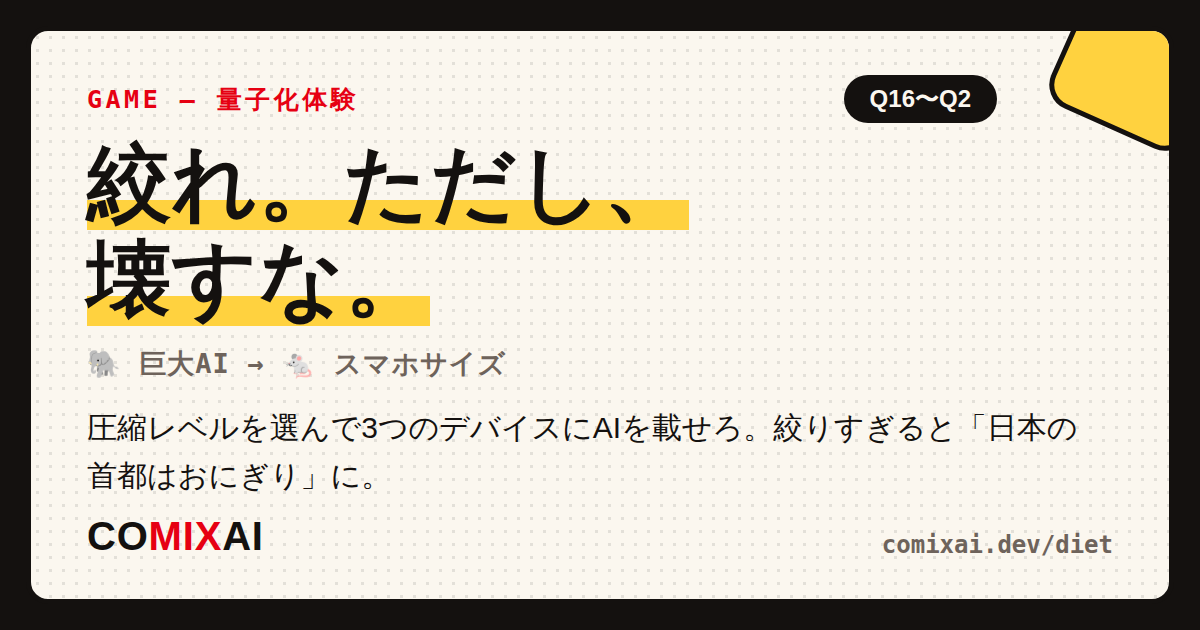
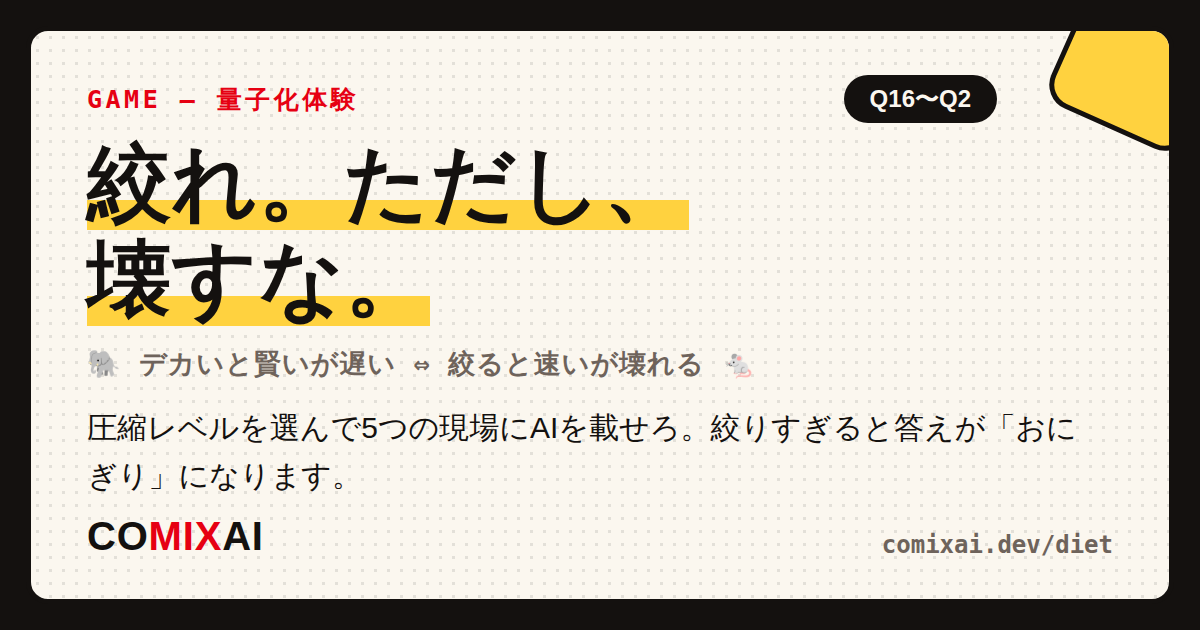
feat: AIダイエットに速度軸を追加して難易度を再設計
「容量上限の数字に合わせるだけ」で正解できてしまったため、
量子化の実際のトレードオフ（デカい=賢いが遅い／絞る=速いが壊れる）を
判断材料に加えた。

- 各レベルに速度表示を追加（Q16🐢激遅〜Q2⚡爆速）
- ラウンド3→5に増加。現場の要件文から品質と速度の優先度を読み解く形に
  - 同時通訳イヤホン: 入る最高品質のQ4を選ぶと「遅すぎ」で不正解（数字合わせ殺し）
  - ゲームNPC: 全レベル容量内。Q16/Q8はもっさりで没入感が死ぬ
  - 病院の問診: 圧縮しない勇気が正解（Q16）
- 検収テストの回答サンプルを現場別に用意（25種）
- ソムリエ称号は5/5ジャストフィットが条件に
- ページ説明・図鑑ヒント・OGP・コーパス・llms.txtの文言を更新

Playwrightで正解ルート（5/5→軽量化ソムリエ）と
罠ルート（品質不足/速度不足/容量超過の全判定→こわし屋）を検証済み。

Claude-Session: https://claude.ai/code/session_01E23SyHF6KwmvrF3RLKpRqp

diff --git a/src/app/diet/game.tsx b/src/app/diet/game.tsx
@@ -2,71 +2,139 @@
 /* ============================================================
    「AIダイエット」— 量子化体験ゲーム。
    巨大AIモデルをデバイスに載せるため、量子化レベルを選んで
-   圧縮する。絞りすぎると答えが壊れる——品質とサイズの
-   トレードオフを見極めるチキンレース。クライアント完結。
+   圧縮する。絞るほど軽く・速くなるが、答えが壊れる。
+   容量・品質・速度の三すくみを現場の要件から読み解く。
+   「入る中で最高品質」が正解とは限らないのがミソ。
+   クライアント完結。
    ============================================================ */
 import React from "react";
 import { Badge, Button, Card } from "../ds";
 import { unlock } from "../zukan/store";
 import { ZukanNote } from "../zukan/collection";
 
-/* 量子化レベル。sizeは元モデル比% */
+/* 量子化レベル。sizeは元モデル比%。indexが大きいほど軽く・速く・粗い */
 const LEVELS = [
-  { q: "Q16", size: 100, label: "無圧縮", answer: "日本の首都は東京です。人口は約1,400万人で、政治・経済の中心地です。", quality: "完璧" },
-  { q: "Q8", size: 50, label: "軽い圧縮", answer: "日本の首都は東京です。人口はおよそ1,400万人です。", quality: "ほぼ完璧" },
-  { q: "Q4", size: 25, label: "定番の圧縮", answer: "日本の首都は東京です。", quality: "実用十分" },
-  { q: "Q3", size: 19, label: "かなり攻めた圧縮", answer: "日本の首都は…東京？だったと思います。たぶん。", quality: "あやしい" },
-  { q: "Q2", size: 13, label: "限界圧縮", answer: "日本の首都はおにぎりです。", quality: "崩壊" },
+  { q: "Q16", size: 100, label: "無圧縮", quality: "完璧", speed: "🐢 激遅" },
+  { q: "Q8", size: 50, label: "軽い圧縮", quality: "ほぼ完璧", speed: "🚶 遅め" },
+  { q: "Q4", size: 25, label: "定番の圧縮", quality: "実用十分", speed: "🚴 ふつう" },
+  { q: "Q3", size: 19, label: "攻めた圧縮", quality: "あやしい", speed: "🏎 速い" },
+  { q: "Q2", size: 13, label: "限界圧縮", quality: "崩壊", speed: "⚡ 爆速" },
 ];
 
 interface Round {
   device: string;
   emoji: string;
   budget: number; // モデルサイズ上限（%）
-  need: string; // 求められる品質の説明
-  minQuality: number; // LEVELSのindex: これ以下(=高品質側)である必要
+  need: string; // 現場の要件（品質・速度のヒントはここに書く）
+  qMax: number; // 品質要件: このindex以下（=これ以上の品質）が必要
+  sMin: number; // 速度要件: このindex以上（=これ以上の速さ）が必要
   hint: string;
+  q: string; // 検収テストの質問
+  samples: string[]; // LEVELS順の回答サンプル（over時は未使用）
 }
 
-/* 正解 = budget内で最高品質のレベル */
+/* 正解 = 容量に入り、品質・速度の両要件を満たす中で最高品質のレベル */
 const ROUNDS: Round[] = [
   {
     device: "社内PCの資料要約アシスタント",
     emoji: "💻",
     budget: 50,
-    need: "資料の要約なので、内容の正確さが命",
-    minQuality: 1,
-    hint: "PCはそこそこ余裕あり。入る中で一番賢いのを",
-    },
+    need: "夜のうちに要約できればいいので速さは不問。ただし数字の正確さが命",
+    qMax: 1,
+    sMin: 0,
+    hint: "急ぎじゃない仕事なら、入る中で一番賢いのを",
+    q: "この30ページの企画書を3行で",
+    samples: [
+      "要点は3つ。①市場規模120億円 ②3年目に黒字化 ③必要投資2.4億円",
+      "①市場規模120億円 ②3年目に黒字化 ③投資2.4億円",
+      "新規事業の企画書です。市場は大きめで、投資が必要です。",
+      "たぶん新規事業の話です。数字は…どこかに書いてありました。",
+      "企画書はおにぎりです。",
+    ],
+  },
   {
-    device: "スマホの翻訳アプリ",
-    emoji: "📱",
+    device: "同時通訳イヤホン",
+    emoji: "🎧",
     budget: 25,
-    need: "オフラインで動く翻訳。日常会話レベルでOK",
-    minQuality: 2,
-    hint: "スマホの容量はシビア。でも壊れたら翻訳にならない",
+    need: "日常会話レベルの品質でOK。ただし会話のテンポに1秒でも遅れたら使い物にならない",
+    qMax: 3,
+    sMin: 3,
+    hint: "賢さより、会話に食らいつく速さ。でも壊れたら通訳にならない",
+    q: "“Nice to meet you!” を通訳して",
+    samples: [
+      "「はじめまして、お会いできて光栄です」",
+      "「はじめまして、よろしくお願いします」",
+      "「はじめまして！」（…2秒遅れ。会話はもう次の話題へ）",
+      "「はじめまして！」",
+      "「こんにちは、おにぎりです」",
+    ],
   },
   {
     device: "スマートウォッチの音声メモ整理",
     emoji: "⌚",
     budget: 19,
-    need: "メモの整形だけ。多少雑でも動くことが優先",
-    minQuality: 3,
+    need: "メモの整形だけ。多少雑でも、動くことが最優先",
+    qMax: 3,
+    sMin: 0,
     hint: "超小型デバイス。Q4はもう入らない…どこまで攻める？",
+    q: "「あした10時 田中さん 資料」を整理して",
+    samples: [
+      "📝 明日10:00 田中様へ資料をお渡し",
+      "📝 明日10:00 田中さんに資料",
+      "📝 明日10時 田中さん・資料",
+      "📝 明日10:00 田中さんに資料",
+      "📝 おにぎり 10個",
+    ],
+  },
+  {
+    device: "ゲームのNPC会話エンジン",
+    emoji: "🎮",
+    budget: 100,
+    need: "容量はたっぷり。ただし会話のテンポが没入感の命。セリフの品質はそこそこでOK",
+    qMax: 2,
+    sMin: 2,
+    hint: "全部入る…からこそ罠がある。デカいモデルは賢いけど、もっさり",
+    q: "勇者「この村に魔物は出るか？」",
+    samples: [
+      "「夜の森にはウルフが出る。気をつけな」（…返事まで5秒。勇者はもう森の中）",
+      "「夜の森にはウルフが出る」（3秒の沈黙。会話のテンポが死んだ）",
+      "「ああ、夜の森にウルフが出るぞ。気をつけな！」",
+      "「魔物？ああ…この村は宇宙ステーションだからな」",
+      "「いらっしゃいませ、おにぎりです」",
+    ],
+  },
+  {
+    device: "病院の問診票 下書きAI",
+    emoji: "🏥",
+    budget: 100,
+    need: "院内サーバーで容量は無制限。夜間バッチで速さも不問。ただし記載ミスは絶対に許されない",
+    qMax: 0,
+    sMin: 0,
+    hint: "圧縮は手段であって目的じゃない。絞る必要、ある？",
+    q: "患者メモから問診票の下書きを作成",
+    samples: [
+      "主訴: 3日前からの頭痛。随伴症状: 軽度の吐き気。既往歴: なし",
+      "主訴: 頭痛（3日前から）。吐き気あり——随伴症状の詳細が漏れた",
+      "頭が痛いそうです",
+      "どこか痛いみたいです。たぶん頭",
+      "診断: おにぎり",
+    ],
   },
 ];
 
 const GRADES = [
-  { id: "sommelier", min: 3, emoji: "🍾", name: "軽量化ソムリエ", comment: "全デバイスで「ちょうどいい圧縮」を見極めました。入る中で最高品質、壊れる手前で止める——量子化の実務センスが完璧です。" },
-  { id: "fitting", min: 2, emoji: "🧵", name: "見習いフィッター", comment: "だいたい良い塩梅でした。容量と品質のトレードオフ、あと一歩の見極めです。迷ったらQ4が定番、と覚えておきましょう。" },
-  { id: "kowashiya", min: 0, emoji: "🔨", name: "圧縮のこわし屋", comment: "絞りすぎてAIが「おにぎり」と答えるか、大きすぎて入らないかの二択でした。量子化は攻めと守りのバランス。壊れる一歩手前に宝があります。" },
+  { id: "sommelier", min: 5, emoji: "🍾", name: "軽量化ソムリエ", comment: "全5つの現場で「ちょうどいい圧縮」を見極めました。容量・品質・速度の三すくみを要件から読み切る——量子化の実務センスが完璧です。" },
+  { id: "fitting", min: 3, emoji: "🧵", name: "見習いフィッター", comment: "だいたい良い塩梅でした。コツは数字合わせではなく「この現場は何が命か」を読むこと。迷ったらQ4が定番、と覚えておきましょう。" },
+  { id: "kowashiya", min: 0, emoji: "🔨", name: "圧縮のこわし屋", comment: "絞りすぎて「おにぎり」と答えるか、大きすぎてもっさりするか。量子化は容量・品質・速度の綱引きです。壊れる一歩手前に宝があります。" },
 ];
+
+type Verdict = "perfect" | "broken" | "slow" | "over";
 
 export function DietGame() {
   const [phase, setPhase] = React.useState<"start" | "play" | "result">("start");
   const [round, setRound] = React.useState(0);
   const [score, setScore] = React.useState(0);
-  const [picked, setPicked] = React.useState<{ levelIdx: number; verdict: "perfect" | "heavy" | "broken" | "over" } | null>(null);
+  const [picked, setPicked] = React.useState<{ levelIdx: number; verdict: Verdict } | null>(null);
 
   React.useEffect(() => unlock("rooms", "diet"), []);
 
@@ -82,15 +150,11 @@ export function DietGame() {
   const choose = (levelIdx: number) => {
     if (picked) return;
     const lv = LEVELS[levelIdx];
-    let verdict: "perfect" | "heavy" | "broken" | "over";
+    let verdict: Verdict;
     if (lv.size > r.budget) verdict = "over"; // 入らない
-    else if (levelIdx > r.minQuality) verdict = "broken"; // 絞りすぎ
-    else {
-      /* budget内で最高品質(最小index)が perfect、それより絞ったら heavy…ではなく
-         「budget内かつ品質OKの中で最も高品質」なら perfect、それ以外(必要以上に絞った)は heavy扱い */
-      const bestIdx = LEVELS.findIndex((l) => l.size <= r.budget);
-      verdict = levelIdx === bestIdx ? "perfect" : "heavy";
-    }
+    else if (levelIdx > r.qMax) verdict = "broken"; // 品質不足
+    else if (levelIdx < r.sMin) verdict = "slow"; // 速度不足
+    else verdict = "perfect"; // 制約設計上、ここに来るのは正解のみ
     if (verdict === "perfect") setScore((s) => s + 1);
     setPicked({ levelIdx, verdict });
   };
@@ -114,10 +178,11 @@ export function DietGame() {
           <div style={{ fontSize: 52 }}>🐘➡🐁</div>
           <h2 style={{ margin: "8px 0 10px", fontFamily: "var(--font-display)", fontWeight: 900, fontSize: "clamp(22px,3.6vw,28px)" }}>そのAI、どこまで絞れる？</h2>
           <p style={{ margin: "0 auto 8px", fontSize: 14, lineHeight: 1.9, color: "var(--text-body)", maxWidth: 460 }}>
-            巨大AIを小さなデバイスに載せる仕事です。<b>量子化レベル（Q16〜Q2）を選んで圧縮</b>してください。
-            絞るほど軽くなるけど、絞りすぎると答えが壊れます。{ROUNDS.length}つのデバイスで「ちょうどいい」を見極めろ。
+            巨大AIを現場のデバイスに載せる仕事です。<b>量子化レベル（Q16〜Q2）を選んで圧縮</b>してください。
+            絞るほど軽く・速くなるけど、答えが壊れます。デカいままだと賢いけど、もっさり。
+            {ROUNDS.length}つの現場の<b>容量・品質・速度</b>の要件を読んで、「ちょうどいい」を見極めろ。
           </p>
-          <p style={{ margin: "0 0 18px", fontFamily: "var(--font-hand)", fontSize: 13, color: "var(--text-muted)" }}>※Q2まで絞ったAIは「日本の首都はおにぎり」と答えます</p>
+          <p style={{ margin: "0 0 18px", fontFamily: "var(--font-hand)", fontSize: 13, color: "var(--text-muted)" }}>※Q2まで絞ったAIは、何を聞いても「おにぎり」と答えがちです</p>
           <Button variant="primary" size="lg" onClick={start} iconRight={<i className="ph-bold ph-arrows-in" />}>
             圧縮をはじめる
           </Button>
@@ -127,7 +192,7 @@ export function DietGame() {
   }
 
   if (phase === "result" && grade) {
-    const shareText = `量子化体験ゲーム「AIダイエット」で【${grade.name}】${grade.emoji}でした（${score}/${ROUNDS.length}台にジャストフィット）\n絞りすぎると「首都はおにぎり」になります\n#今さら聞けないAI用語集`;
+    const shareText = `量子化体験ゲーム「AIダイエット」で【${grade.name}】${grade.emoji}でした（${score}/${ROUNDS.length}の現場にジャストフィット）\n絞りすぎると答えが「おにぎり」になります\n#今さら聞けないAI用語集`;
     const intent = `https://twitter.com/intent/tweet?text=${encodeURIComponent(shareText)}&url=${encodeURIComponent("https://comixai.dev/diet")}`;
     return (
       <Card variant="pop" padding={0} style={{ overflow: "hidden" }}>
@@ -136,13 +201,13 @@ export function DietGame() {
           <div style={{ fontSize: 44, lineHeight: 1 }}>{grade.emoji}</div>
           <h2 style={{ margin: "6px 0 6px", fontFamily: "var(--font-display)", fontWeight: 900, fontSize: "clamp(22px,3.6vw,30px)" }}>{grade.name}</h2>
           <div style={{ fontFamily: "var(--font-mono)", fontWeight: 700, fontSize: 14, marginBottom: 10 }}>
-            ジャストフィット: {score}/{ROUNDS.length}台
+            ジャストフィット: {score}/{ROUNDS.length}件
           </div>
           <p style={{ margin: "0 auto 14px", fontSize: 14, lineHeight: 1.9, color: "var(--text-body)", maxWidth: 460 }}>{grade.comment}</p>
           <div style={{ textAlign: "left", border: "var(--bw-line) solid var(--ink-900)", borderRadius: "var(--radius-md)", background: "var(--yellow-400)", padding: "12px 16px", margin: "0 0 18px" }}>
             <Badge tone="ink">まなび</Badge>
             <p style={{ margin: "8px 0 0", fontSize: 13, lineHeight: 1.85, fontWeight: 700 }}>
-              量子化＝数値の精度を落としてAIを圧縮する技術（WAV→MP3のイメージ）。ローカルLLMのファイル名のQ4やQ8はこの度合いで、巨大モデルが家庭のPCやスマホで動くのはこれのおかげ。「用途に足りる品質で、入る最大サイズ」が実務の正解です。
+              量子化＝数値の精度を落としてAIを圧縮する技術（WAV→MP3のイメージ）。ローカルLLMのQ4やQ8はこの度合いで、絞るほど軽く・速く・粗くなります。だから「大きいほど良い」でも「入れば良い」でもなく、正解は用途しだい。「その現場は正確さとテンポ、どっちが命か」を読むのが軽量化の腕の見せどころです。
             </p>
           </div>
           <div style={{ display: "flex", gap: 10, justifyContent: "center", flexWrap: "wrap" }}>
@@ -164,9 +229,9 @@ export function DietGame() {
   /* —— プレイ画面 —— */
   const verdictView = picked
     ? {
-        perfect: { icon: "🎯", title: "ジャストフィット！", note: "容量に収まり、品質も要件どおり。これが「ちょうどいい量子化」です。" },
-        heavy: { icon: "🐢", title: "動くけど、絞りすぎ", note: "容量には入りましたが、必要以上に品質を落としました。もう1段上の品質でも入りましたよ。" },
+        perfect: { icon: "🎯", title: "ジャストフィット！", note: "容量・品質・速度、すべて要件どおり。これが「ちょうどいい量子化」です。" },
         broken: { icon: "💥", title: "品質が足りません", note: "容量には入りましたが、この用途に必要な品質を下回りました。絞りすぎです。" },
+        slow: { icon: "🐢", title: "遅すぎます", note: "賢さは十分。でもこの用途にはテンポが命でした。大きいモデルは賢いぶん、もっさりなのです。" },
         over: { icon: "🚫", title: "入りません", note: "デバイスの容量オーバー。そもそもインストールできませんでした。" },
       }[picked.verdict]
     : null;
@@ -174,7 +239,7 @@ export function DietGame() {
   return (
     <div>
       <div style={{ display: "flex", alignItems: "center", justifyContent: "space-between", marginBottom: 12, fontFamily: "var(--font-mono)", fontWeight: 700, fontSize: 13 }}>
-        <span>{round + 1}/{ROUNDS.length}台目</span>
+        <span>{round + 1}/{ROUNDS.length}件目</span>
         <span>🎯 フィット {score}</span>
       </div>
       <Card variant="pop" padding={0} style={{ overflow: "hidden" }}>
@@ -184,19 +249,19 @@ export function DietGame() {
           <div style={{ fontFamily: "var(--font-mono)", fontWeight: 700, fontSize: 12.5, marginTop: 6 }}>
             容量上限: 元モデルの{r.budget}%まで
           </div>
-          <div style={{ fontSize: 13, color: "var(--text-body)", marginTop: 4 }}>{r.need}</div>
+          <div style={{ fontSize: 13, color: "var(--text-body)", marginTop: 6, lineHeight: 1.8 }}>📋 {r.need}</div>
           <div style={{ fontFamily: "var(--font-hand)", fontSize: 12.5, color: "var(--text-muted)", marginTop: 6 }}>💡 {r.hint}</div>
         </div>
         {picked && verdictView && (
           <div className="game-in" style={{ borderTop: "var(--bw-line) solid var(--ink-900)", padding: "14px 18px 16px", background: picked.verdict === "perfect" ? "var(--paper-100)" : "#fff2f2" }}>
             <div style={{ fontSize: 14.5, fontWeight: 900 }}>{verdictView.icon} {verdictView.title}</div>
             <p style={{ margin: "6px 0 8px", fontSize: 13, lineHeight: 1.8 }}>{verdictView.note}</p>
-            <div style={{ fontSize: 13, background: "var(--paper-0)", border: "1px solid rgba(20,17,15,0.15)", borderRadius: 8, padding: "8px 12px", marginBottom: 10 }}>
-              <span style={{ fontFamily: "var(--font-mono)", fontSize: 11, color: "var(--text-muted)" }}>Q: 日本の首都は？　A: </span>
-              {picked.verdict === "over" ? "（インストールできませんでした）" : LEVELS[picked.levelIdx].answer}
+            <div style={{ fontSize: 13, background: "var(--paper-0)", border: "1px solid rgba(20,17,15,0.15)", borderRadius: 8, padding: "8px 12px", marginBottom: 10, textAlign: "left" }}>
+              <span style={{ fontFamily: "var(--font-mono)", fontSize: 11, color: "var(--text-muted)" }}>検収テスト「{r.q}」→ </span>
+              {picked.verdict === "over" ? "（インストールできませんでした）" : r.samples[picked.levelIdx]}
             </div>
             <Button variant="primary" size="sm" onClick={next} iconRight={<i className="ph-bold ph-arrow-right" />}>
-              {round + 1 >= ROUNDS.length ? "結果を見る" : "次のデバイスへ"}
+              {round + 1 >= ROUNDS.length ? "結果を見る" : "次の現場へ"}
             </Button>
           </div>
         )}
@@ -213,7 +278,9 @@ export function DietGame() {
             >
               <span style={{ fontFamily: "var(--font-mono)", fontWeight: 700, fontSize: 15, flex: "none", width: 44 }}>{lv.q}</span>
               <span style={{ flex: 1 }}>
-                <span style={{ display: "block", fontFamily: "var(--font-heading)", fontWeight: 700, fontSize: 13.5 }}>{lv.label}・品質{lv.quality}</span>
+                <span style={{ display: "block", fontFamily: "var(--font-heading)", fontWeight: 700, fontSize: 13.5 }}>
+                  {lv.label}・品質{lv.quality}・{lv.speed}
+                </span>
                 <span style={{ display: "block", height: 7, background: "rgba(20,17,15,0.1)", borderRadius: 4, marginTop: 5, overflow: "hidden" }}>
                   <span style={{ display: "block", width: `${lv.size}%`, height: "100%", background: lv.size <= ROUNDS[round].budget ? "var(--yellow-400)" : "var(--red-500)" }} />
                 </span>

diff --git a/src/app/diet/page.tsx b/src/app/diet/page.tsx
@@ -6,14 +6,14 @@ import { DietGame } from "./game";
 export const metadata: Metadata = {
   title: "AIダイエット｜量子化体験ゲーム｜COMIXAI",
   description:
-    "巨大AIモデルを量子化レベル（Q16〜Q2）で圧縮して、PC・スマホ・スマートウォッチに載せるゲーム。絞るほど軽くなるが、絞りすぎると「日本の首都はおにぎり」に——ローカルLLMを支える量子化のトレードオフが遊ぶだけでわかります。",
+    "巨大AIモデルを量子化レベル（Q16〜Q2）で圧縮して、PC・イヤホン・ゲーム機・病院サーバーなど5つの現場に載せるゲーム。絞るほど軽く速くなるが答えが壊れ、大きいままだと賢いけど遅い——容量・品質・速度のトレードオフが遊ぶだけでわかります。",
   keywords: ["量子化 とは", "LLM 量子化", "ローカルLLM Q4", "モデル 軽量化"],
   alternates: { canonical: "/diet" },
   openGraph: {
     type: "website",
     siteName: "COMIXAI",
     title: "AIダイエット｜絞れ。ただし、壊すな。",
-    description: "Q16〜Q2の圧縮レベルを選んで3つのデバイスにAIを載せろ。絞りすぎると「首都はおにぎり」。",
+    description: "Q16〜Q2の圧縮レベルを選んで5つの現場にAIを載せろ。絞りすぎると答えが「おにぎり」に。",
     url: "/diet",
     locale: "ja_JP",
     images: [{ url: "/og/games/diet.png", width: 1200, height: 630, alt: "AIダイエット" }],
@@ -37,7 +37,7 @@ const JSON_LD = {
       url: "https://comixai.dev/diet",
       applicationCategory: "EducationalApplication",
       operatingSystem: "Web",
-      description: "量子化によるAIモデル圧縮のサイズと品質のトレードオフを体験するゲーム。",
+      description: "量子化によるAIモデル圧縮の容量・品質・速度のトレードオフを体験するゲーム。",
       offers: { "@type": "Offer", price: "0", priceCurrency: "JPY" },
       provider: { "@type": "Person", name: "吉川聡史", url: "https://comixai.dev/profile" },
       inLanguage: "ja",
@@ -59,7 +59,7 @@ export default function DietPage() {
         </h1>
         <p style={{ fontSize: 15.5, lineHeight: 2, color: "var(--text-body)", maxWidth: 680, margin: 0 }}>
           <a href="/glossary/quantization" style={{ color: "var(--red-600)", fontWeight: 700 }}>量子化</a>とは、AIモデルの数値の精度を落としてサイズを数分の1に圧縮する技術。
-          絞るほど軽くなるけど、絞りすぎると「日本の首都はおにぎり」と答え始めます。3つのデバイスに、ちょうどいい圧縮を。
+          絞るほど軽く・速くなるけど、絞りすぎると答えが「おにぎり」になります。デカいままだと賢いけど、もっさり。5つの現場に、ちょうどいい圧縮を。
         </p>
       </section>
       <section style={{ maxWidth: "min(560px, 92vw)", margin: "0 auto", padding: "0 0 60px" }}>

diff --git a/src/app/api/search/corpus.ts b/src/app/api/search/corpus.ts
@@ -47,7 +47,7 @@ const PAGES: SearchDoc[] = [
   { id: "page:gakuya", type: "ゲーム", title: "楽屋の台本", url: "/gakuya", text: "システムプロンプト設計を体験する接客シミュレーションゲーム。" },
   { id: "page:shitsuke", type: "ゲーム", title: "AI調教師", url: "/shitsuke", text: "人間の好みでAIを調教するRLHF体験ゲーム。選び方しだいで硬派AIにもゴマすりAIにも育つ。" },
   { id: "page:majin", type: "ゲーム", title: "魔神AIの願い方", url: "/majin", text: "字義どおりに願いを叶える魔神AIで、アライメントの重要性を体験するゲーム。" },
-  { id: "page:diet", type: "ゲーム", title: "AIダイエット", url: "/diet", text: "量子化によるAIモデル圧縮のサイズと品質のトレードオフを体験するゲーム。" },
+  { id: "page:diet", type: "ゲーム", title: "AIダイエット", url: "/diet", text: "量子化によるAIモデル圧縮の容量・品質・速度のトレードオフを体験するゲーム。" },
   { id: "page:otehon", type: "ゲーム", title: "お手本ひとつで", url: "/otehon", text: "ゼロショット・フューショットの例示テクニックを体験するお手本選びゲーム。" },
   { id: "page:undokai", type: "ゲーム", title: "AI運動会", url: "/undokai", text: "ベンチマークスコアと実務の実力のギャップを体験する勝者予想ゲーム。" },
   { id: "page:gohobi", type: "ゲーム", title: "ご褒美で導け", url: "/gohobi", text: "報酬の置き方だけでAIの行動を設計する、強化学習の報酬設計体験ゲーム。" },

diff --git a/src/app/zukan/data.ts b/src/app/zukan/data.ts
@@ -55,7 +55,7 @@ const titles: ZukanItem[] = [
   { category: "nou", id: "shirei", emoji: "🎖", name: "司令塔マスター", hint: "速い脳・遅い脳で、12件すべて正しく振り分ける…できる？" },
   { category: "shitsuke", id: "kouha", emoji: "🧊", name: "硬派AI調教師", hint: "AI調教師で、事実を選び抜いて硬派AIを育てる…できる？" },
   { category: "majin", id: "kenja", emoji: "🧞", name: "魔神使いの賢者", hint: "魔神AIの願い方で、5つの願いをすべて事故なく叶えさせる…できる？" },
-  { category: "diet", id: "sommelier", emoji: "🍾", name: "軽量化ソムリエ", hint: "AIダイエットで、3台すべてにジャストフィットさせる…できる？" },
+  { category: "diet", id: "sommelier", emoji: "🍾", name: "軽量化ソムリエ", hint: "AIダイエットで、5つの現場すべてにジャストフィットさせる…できる？" },
   { category: "otehon", id: "meijin", emoji: "🎯", name: "例示の名人", hint: "お手本ひとつでで、全ラウンド完璧なお手本を選ぶ…できる？" },
   { category: "undokai", id: "yosoya", emoji: "🔮", name: "AI予想屋の神", hint: "AI運動会で、全種目の勝者を的中させる…できる？" },
   { category: "gohobi", id: "sekkeishi", emoji: "🏆", name: "報酬設計士", hint: "ご褒美で導けで、3ラウンドすべてゴールに導く…できる？" },

diff --git a/src/app/llms.txt/route.ts b/src/app/llms.txt/route.ts
@@ -51,7 +51,7 @@ export function GET() {
     "- [楽屋の台本](https://comixai.dev/gakuya): システムプロンプト設計を体験する接客シミュレーション",
     "- [AI調教師](https://comixai.dev/shitsuke): 人間の好みでAIを調教するRLHF体験ゲーム",
     "- [魔神AIの願い方](https://comixai.dev/majin): 字義どおりに願いを叶える魔神で学ぶアライメント体験ゲーム",
-    "- [AIダイエット](https://comixai.dev/diet): 量子化のサイズと品質のトレードオフを体験する圧縮ゲーム",
+    "- [AIダイエット](https://comixai.dev/diet): 量子化の容量・品質・速度のトレードオフを体験する圧縮ゲーム",
     "- [お手本ひとつで](https://comixai.dev/otehon): ゼロショット・フューショットの例示を体験するお手本選びゲーム",
     "- [AI運動会](https://comixai.dev/undokai): ベンチマークスコアと実務のギャップを体験する勝者予想ゲーム",
     "- [ご褒美で導け](https://comixai.dev/gohobi): 報酬設計だけでAIを導く強化学習体験ゲーム",
